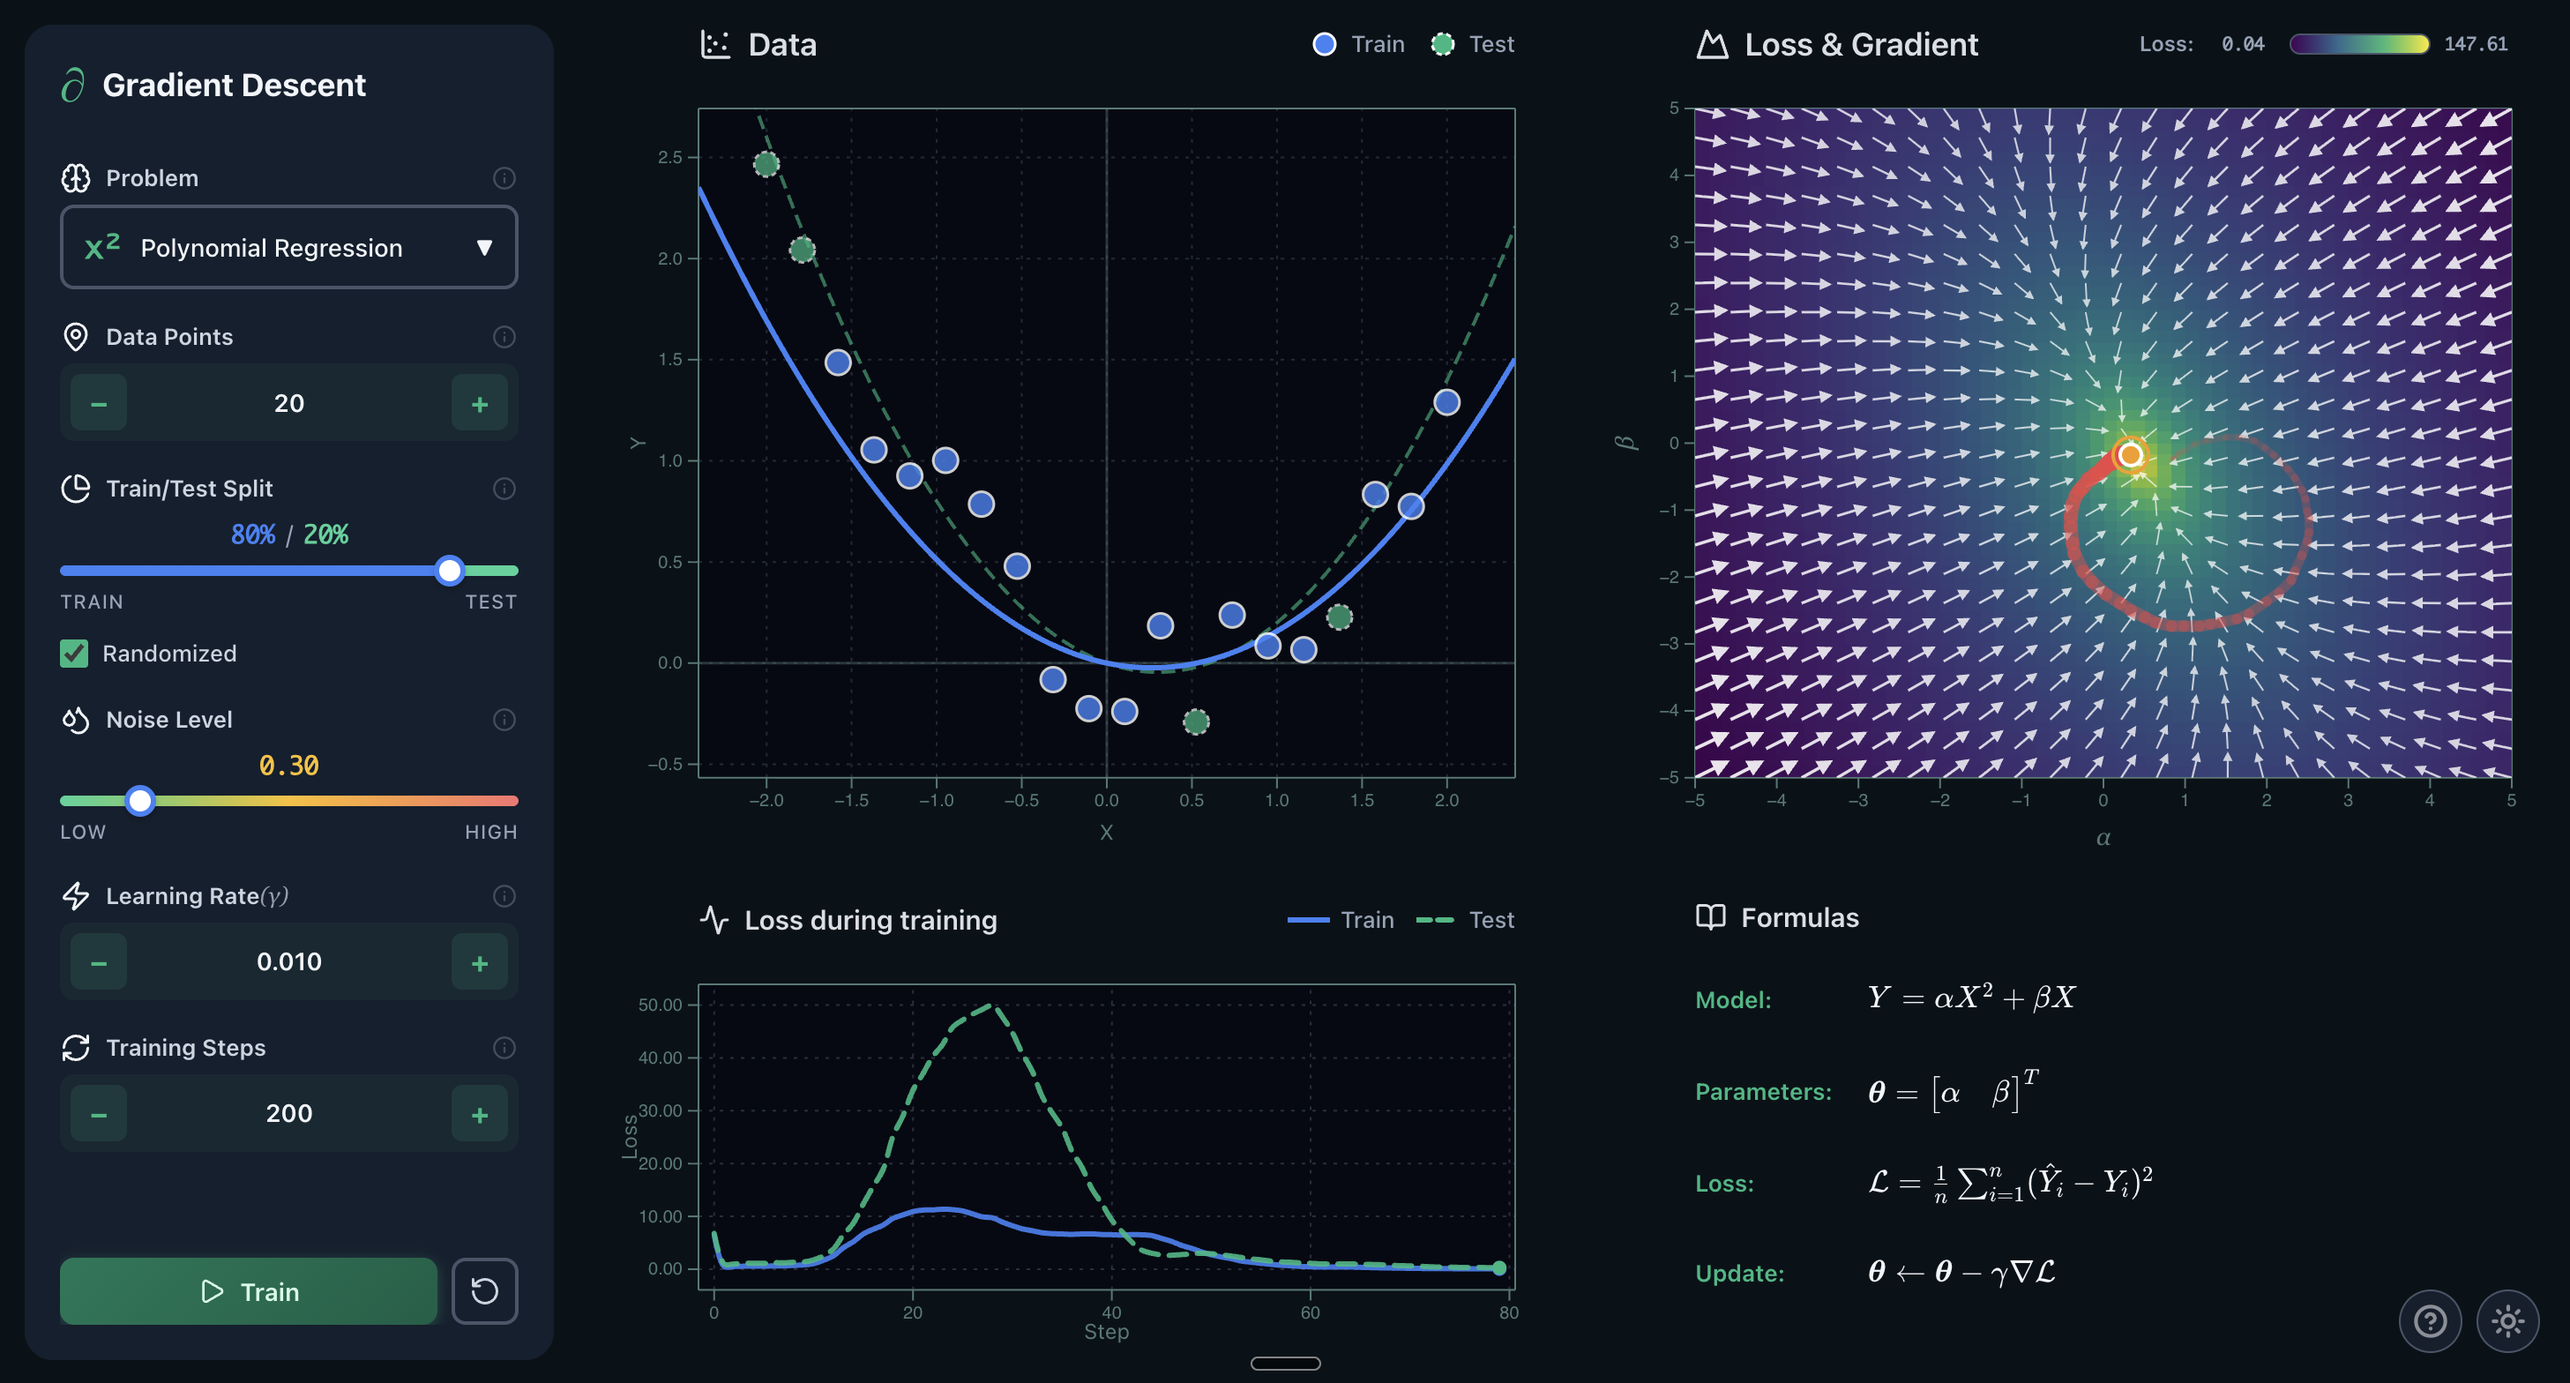
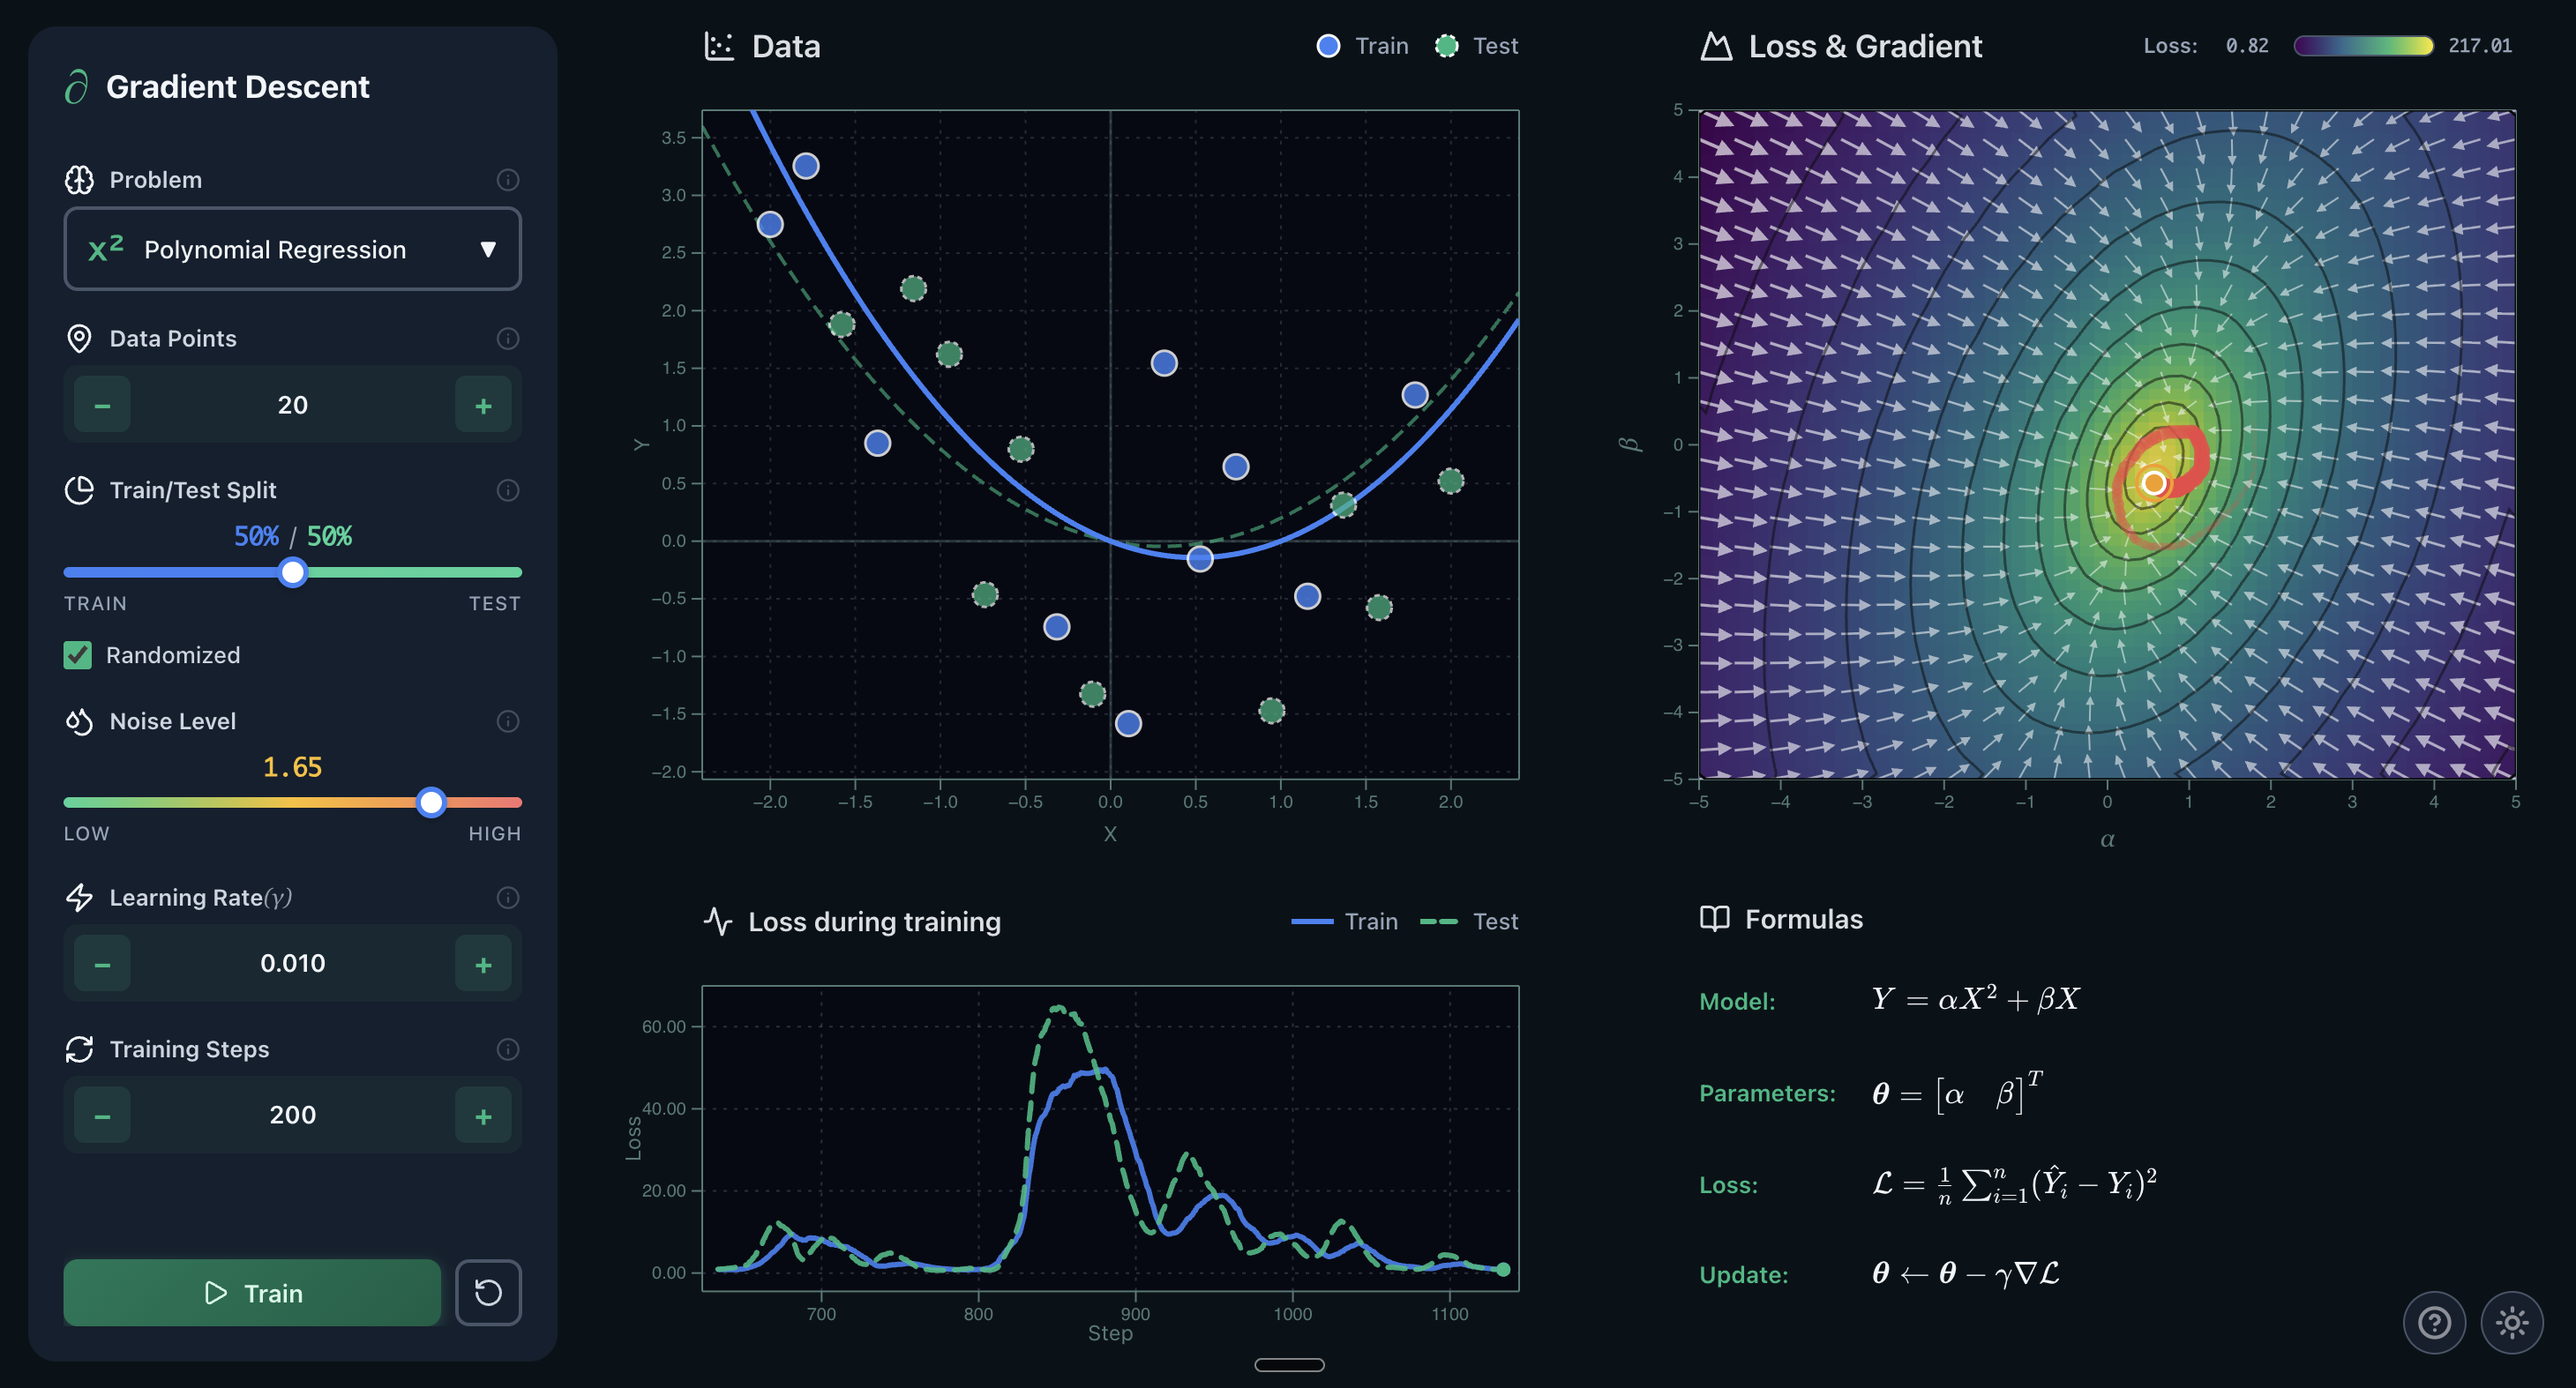
Enhance README and HelpModal for clarity; improve LossLandscape visualization
- Updated README to clarify features, including renaming "Gradient Field" to "Loss Landscape" and enhancing descriptions of visualizations.
- Improved HelpModal content to reflect changes in visualizations and provide clearer explanations of the data plot, loss & gradient, and loss history.
- Added contour lines to the LossLandscape component for better representation of the optimization landscape, enhancing user understanding of loss values.

diff --git a/src/components/LossLandscape.svelte b/src/components/LossLandscape.svelte
@@ -8,6 +8,7 @@
   
   import { onMount } from 'svelte';
   import * as d3 from 'd3';
+  import { contours } from 'd3-contour';
   import { interpolateViridis } from 'd3-scale-chromatic';
   import { 
     datasetStore,
@@ -195,12 +196,17 @@
       .attr('transform', `translate(${margin.left},${margin.top})`);
     
     // Draw loss heatmap first (behind everything)
-    drawLossHeatmap(plotGroup, xScale, yScale, innerWidth, innerHeight);
+    const lossData = drawLossHeatmap(plotGroup, xScale, yScale, innerWidth, innerHeight);
     
-    // Draw gradient field (above heatmap, behind trail)
+    // Draw gradient field (above heatmap, below contours)
     drawGradients(plotGroup, xScale, yScale, innerWidth, innerHeight);
     
-    // Draw training path with fade effect (in clipped group, above gradients, below marker)
+    // Draw contour lines (above gradient field, below trail)
+    if (lossData) {
+      drawContours(plotGroup, lossData, innerWidth, innerHeight);
+    }
+    
+    // Draw training path with fade effect (in clipped group, above contours, below marker)
     drawTrainingPath(plotGroup, xScale, yScale);
     
     // Draw current position last (needs to be in main group, not clipped, on top)
@@ -213,9 +219,9 @@
     yScale: d3.ScaleLinear<number, number>,
     innerWidth: number,
     innerHeight: number
-  ) {
+  ): { values: number[][], minLoss: number, maxLoss: number, resolution: number } | null {
     const trainData = data.filter(d => d.isTraining);
-    if (trainData.length === 0) return;
+    if (trainData.length === 0) return null;
     
     // Create loss heatmap
     const heatmapResolution = 60;
@@ -279,6 +285,76 @@
           .style('opacity', 0.85);
       }
     }
+    
+    // Return data for contour generation
+    return {
+      values: lossValues,
+      minLoss,
+      maxLoss,
+      resolution: heatmapResolution
+    };
+  }
+  
+  function drawContours(
+    g: d3.Selection<SVGGElement, unknown, null, undefined>,
+    lossData: { values: number[][], minLoss: number, maxLoss: number, resolution: number },
+    innerWidth: number,
+    innerHeight: number
+  ) {
+    const { values, minLoss, maxLoss, resolution } = lossData;
+    
+    // Transpose the grid for d3.contours (expects [row][col] = [y][x])
+    const transposed: number[] = [];
+    for (let j = 0; j < resolution; j++) {
+      for (let i = 0; i < resolution; i++) {
+        transposed.push(values[i][j]);
+      }
+    }
+    
+    // Generate contour levels using log scale
+    const logMin = Math.log(minLoss + 0.001);
+    const logMax = Math.log(maxLoss + 0.001);
+    const numContours = 12;
+    const thresholds: number[] = [];
+    
+    for (let i = 1; i < numContours; i++) {
+      const logValue = logMin + (i / numContours) * (logMax - logMin);
+      thresholds.push(Math.exp(logValue) - 0.001);
+    }
+    
+    // Generate contours
+    const contourGenerator = contours()
+      .size([resolution, resolution])
+      .smooth(true)
+      .thresholds(thresholds);
+    
+    const contourData = contourGenerator(transposed);
+    
+    // Create path generator
+    const cellWidth = innerWidth / resolution;
+    const cellHeight = innerHeight / resolution;
+    
+    const pathGenerator = d3.geoPath()
+      .projection(d3.geoTransform({
+        point: function(x, y) {
+          this.stream.point(x * cellWidth, y * cellHeight);
+        }
+      }));
+    
+    // Draw contours - reversed colors for better contrast with arrows
+    const isDarkMode = document.documentElement.getAttribute('data-theme') === 'dark';
+    const contourColor = isDarkMode ? '#0a0a0a' : '#ffffff';
+    
+    g.selectAll('.contour')
+      .data(contourData)
+      .enter()
+      .append('path')
+      .attr('class', 'contour')
+      .attr('d', pathGenerator)
+      .attr('fill', 'none')
+      .attr('stroke', contourColor)
+      .attr('stroke-width', 1.5)
+      .style('opacity', 0.5);
   }
   
   function drawTrainingPath(
@@ -401,7 +477,7 @@
         .attr('stroke', arrowColor)
         .attr('stroke-width', 0.8 + normalizedMagnitude * 1.2)
         .attr('marker-end', 'url(#arrowhead)')
-        .style('opacity', isDark ? 0.7 + normalizedMagnitude * 0.2 : 0.5 + normalizedMagnitude * 0.3);
+        .style('opacity', isDark ? 0.5 + normalizedMagnitude * 0.15 : 0.35 + normalizedMagnitude * 0.25);
     }
   }
   

diff --git a/src/components/HelpModal.svelte b/src/components/HelpModal.svelte
@@ -199,9 +199,9 @@
           <h3>Understanding the Visualizations</h3>
           <ul>
             <li><strong>Data Plot:</strong> Your training (solid) and test (dashed) data points with the current model fit</li>
-            <li><strong>Gradient Field:</strong> Loss heatmap (colors show loss magnitude) with gradient arrows showing steepest descent directions</li>
-            <li><strong>Loss History:</strong> How training and test loss evolve over time - watch for convergence or overfitting</li>
-            <li><strong>Formulas:</strong> The mathematical foundation of what you're observing</li>
+            <li><strong>Loss & Gradient:</strong> Color-coded loss heatmap showing the optimization landscape, white contour lines connecting points of equal loss, and gradient arrows showing steepest descent directions at each point</li>
+            <li><strong>Loss History:</strong> How training and test loss evolve over time - watch for convergence or overfitting. The current position is marked with colored dots at the end of each line</li>
+            <li><strong>Formulas:</strong> The mathematical foundation of what you're observing, rendered with proper LaTeX typesetting</li>
           </ul>
         </section>
         
